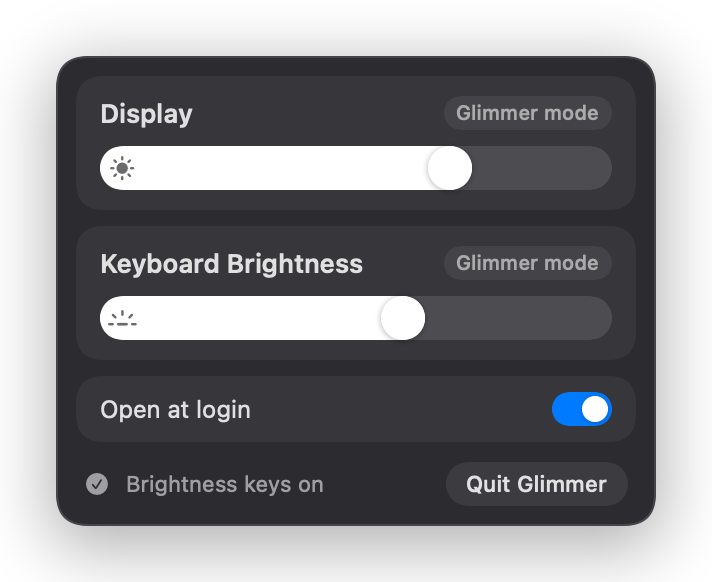
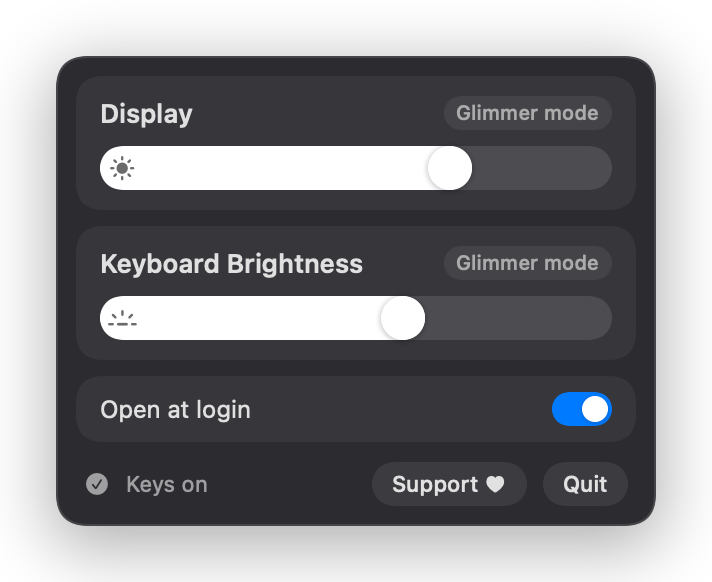
Add "Support Glimmer": Buy Me a Coffee button, Sponsor link and in-app Support
- README: Support Glimmer section with a rendered coffee button, linked from the top
- .github/FUNDING.yml so GitHub shows the Sponsor button
- Panel: "Support ♥" pill opens buymeacoffee.com/adfleshner
- Venmo / Cash App / Revolut buttons rendered for when handles are added

Changed region(s): [[0.5562, 0.8041, 0.8652, 0.866], [0.1854, 0.8041, 0.4635, 0.866]]

diff --git a/Sources/Assets.swift b/Sources/Assets.swift
@@ -292,6 +292,69 @@ struct DMGWindowShot: View {
     }
 }
 
+/// README "Support Glimmer" hero button (Buy Me a Coffee).
+struct SupportCoffeeButton: View {
+    var body: some View {
+        HStack(spacing: 12) {
+            ZStack {
+                Circle().fill(Color.white.opacity(0.22)).frame(width: 40, height: 40)
+                Image(systemName: "cup.and.saucer.fill")
+                    .font(.system(size: 19, weight: .semibold))
+            }
+            VStack(alignment: .leading, spacing: 1) {
+                Text("Buy me a coffee")
+                    .font(.system(size: 19, weight: .heavy, design: .rounded))
+                Text("Support Glimmer")
+                    .font(.system(size: 11.5, weight: .semibold))
+                    .opacity(0.85)
+            }
+            Spacer(minLength: 4)
+            Image(systemName: "heart.fill").font(.system(size: 16, weight: .bold)).opacity(0.9)
+        }
+        .foregroundStyle(Color(red: 0.24, green: 0.10, blue: 0.04))
+        .padding(.leading, 12).padding(.trailing, 20).padding(.vertical, 10)
+        .frame(width: 300)
+        .background(
+            Capsule()
+                .fill(LinearGradient(colors: [Color(red: 1.0, green: 0.88, blue: 0.45),
+                                              Color(red: 1.0, green: 0.66, blue: 0.25),
+                                              Color(red: 0.98, green: 0.47, blue: 0.36)],
+                                     startPoint: .topLeading, endPoint: .bottomTrailing))
+                .overlay(Capsule().strokeBorder(
+                    LinearGradient(colors: [.white.opacity(0.8), .white.opacity(0.1)], startPoint: .top, endPoint: .bottom),
+                    lineWidth: 1.2))
+                .shadow(color: Color(red: 1.0, green: 0.6, blue: 0.25).opacity(0.55), radius: 14, y: 4))
+        .overlay(alignment: .topTrailing) {
+            Sparkle().fill(Color.white).frame(width: 16, height: 16)
+                .shadow(color: .white, radius: 4).offset(x: -34, y: -4)
+        }
+        .padding(18)
+        .environment(\.colorScheme, .light)
+    }
+}
+
+/// Smaller brand-coloured support pill (Venmo / Cash App / Revolut).
+struct SupportPill: View {
+    let label: String
+    let symbol: String
+    let top: Color
+    let bottom: Color
+    var body: some View {
+        HStack(spacing: 7) {
+            Image(systemName: symbol).font(.system(size: 14, weight: .bold))
+            Text(label).font(.system(size: 15, weight: .bold, design: .rounded))
+        }
+        .foregroundStyle(.white)
+        .frame(width: 140, height: 42)
+        .background(
+            Capsule()
+                .fill(LinearGradient(colors: [top, bottom], startPoint: .top, endPoint: .bottom))
+                .overlay(Capsule().strokeBorder(Color.white.opacity(0.25), lineWidth: 1))
+                .shadow(color: bottom.opacity(0.4), radius: 6, y: 2))
+        .padding(8)
+    }
+}
+
 /// README "Download" button.
 struct DownloadButton: View {
     var body: some View {
@@ -388,6 +451,18 @@ func renderAssets(to dir: String) {
 
     // README download button
     writePNG(DownloadButton(), to: out.appendingPathComponent("download-button.png"), scale: 2)
+
+    // README "Support Glimmer" buttons
+    writePNG(SupportCoffeeButton(), to: out.appendingPathComponent("support-bmc.png"), scale: 2)
+    writePNG(SupportPill(label: "Venmo", symbol: "v.circle.fill",
+                         top: Color(red: 0.25, green: 0.62, blue: 1.0), bottom: Color(red: 0.0, green: 0.45, blue: 0.9)),
+             to: out.appendingPathComponent("support-venmo.png"), scale: 2)
+    writePNG(SupportPill(label: "Cash App", symbol: "dollarsign.circle.fill",
+                         top: Color(red: 0.2, green: 0.88, blue: 0.35), bottom: Color(red: 0.0, green: 0.68, blue: 0.2)),
+             to: out.appendingPathComponent("support-cashapp.png"), scale: 2)
+    writePNG(SupportPill(label: "Revolut", symbol: "r.circle.fill",
+                         top: Color(white: 0.28), bottom: Color(white: 0.06)),
+             to: out.appendingPathComponent("support-revolut.png"), scale: 2)
 
     // Panel screenshots
     let demo = GlimmerModel(previewScreen: 0.72, keyboard: 0.6, workaround: true)

diff --git a/Sources/Panel.swift b/Sources/Panel.swift
@@ -129,13 +129,18 @@ struct PanelView: View {
                     Label("Using macOS controls", systemImage: "checkmark.circle")
                         .font(.system(size: 11)).foregroundStyle(.secondary)
                 } else if model.keysActive {
-                    Label("Brightness keys on", systemImage: "checkmark.circle.fill")
+                    Label("Keys on", systemImage: "checkmark.circle.fill")
                         .font(.system(size: 11)).foregroundStyle(.secondary)
                 } else {
                     Button("Enable brightness keys…", action: enableKeys).buttonStyle(PillButtonStyle())
                 }
                 Spacer()
-                Button("Quit Glimmer") { NSApp.terminate(nil) }.buttonStyle(PillButtonStyle())
+                Button("Support ♥") {
+                    NSWorkspace.shared.open(URL(string: "https://buymeacoffee.com/adfleshner")!)
+                }
+                .buttonStyle(PillButtonStyle())
+                .help("Buy me a coffee — keeps Glimmer free and maintained")
+                Button("Quit") { NSApp.terminate(nil) }.buttonStyle(PillButtonStyle())
             }
             .padding(.horizontal, 4)
             .padding(.top, 2)

diff --git a/README.md b/README.md
@@ -13,7 +13,7 @@
   <a href="https://github.com/adfleshner/mac-glimmer/releases/latest/download/Glimmer.dmg">
     <img src="docs/images/download-button.png" width="344" alt="Download Glimmer for macOS">
   </a><br>
-  <sub>Free · Apple Silicon & Intel · macOS 13 Ventura or later · <a href="https://github.com/adfleshner/mac-glimmer/releases/latest">Release notes</a></sub>
+  <sub>Free · Apple Silicon & Intel · macOS 13 Ventura or later · <a href="https://github.com/adfleshner/mac-glimmer/releases/latest">Release notes</a> · <a href="#support-glimmer">☕ Support Glimmer</a></sub>
 </p>
 
 <p align="center">
@@ -185,6 +185,17 @@ views. After changing the panel or the icon, regenerate them with `./scripts/ren
 - Tested on a MacBook Pro 15-inch 2019 (MacBookPro15,3) with a 2017 panel on macOS Sequoia.
   The keyboard workaround targets Intel MacBooks with backlit keyboards (2016–2020); on Macs
   where macOS works normally, Glimmer stays in native mode.
+
+## Support Glimmer
+
+Glimmer is free and always will be. If it saved you from buying a new Mac, a coffee keeps it
+maintained and helps bring the same fix to more MacBooks. Totally optional, always appreciated. ♥
+
+<p align="center">
+  <a href="https://buymeacoffee.com/adfleshner"><img src="docs/images/support-bmc.png" width="336" alt="Buy me a coffee — Support Glimmer"></a>
+</p>
+
+<p align="center"><sub><a href="https://buymeacoffee.com/adfleshner">buymeacoffee.com/adfleshner</a></sub></p>
 
 ## FAQ
 
